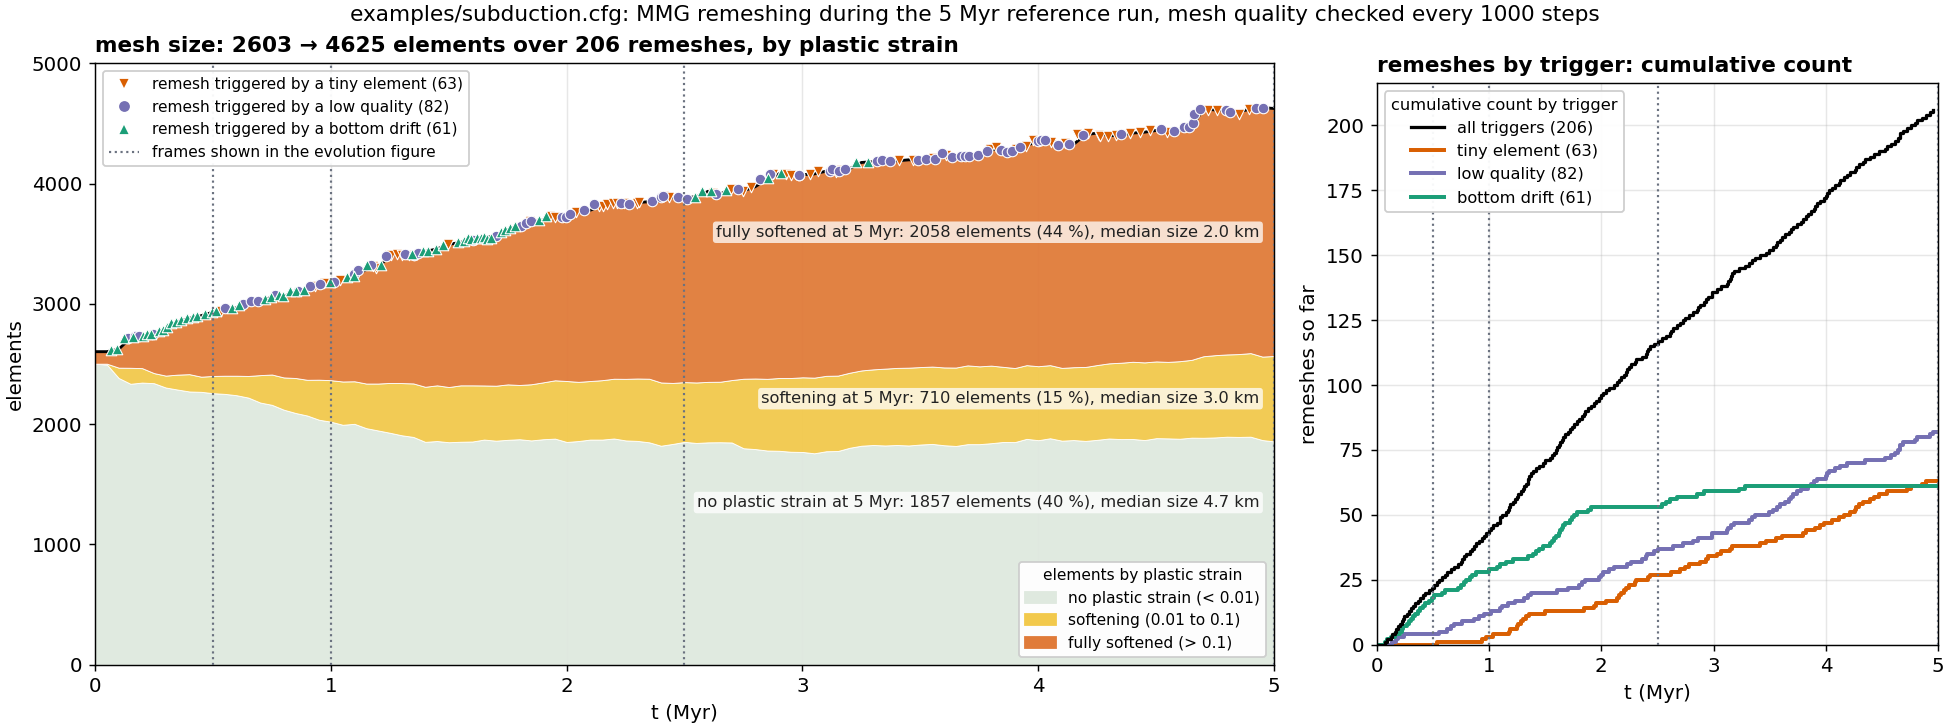
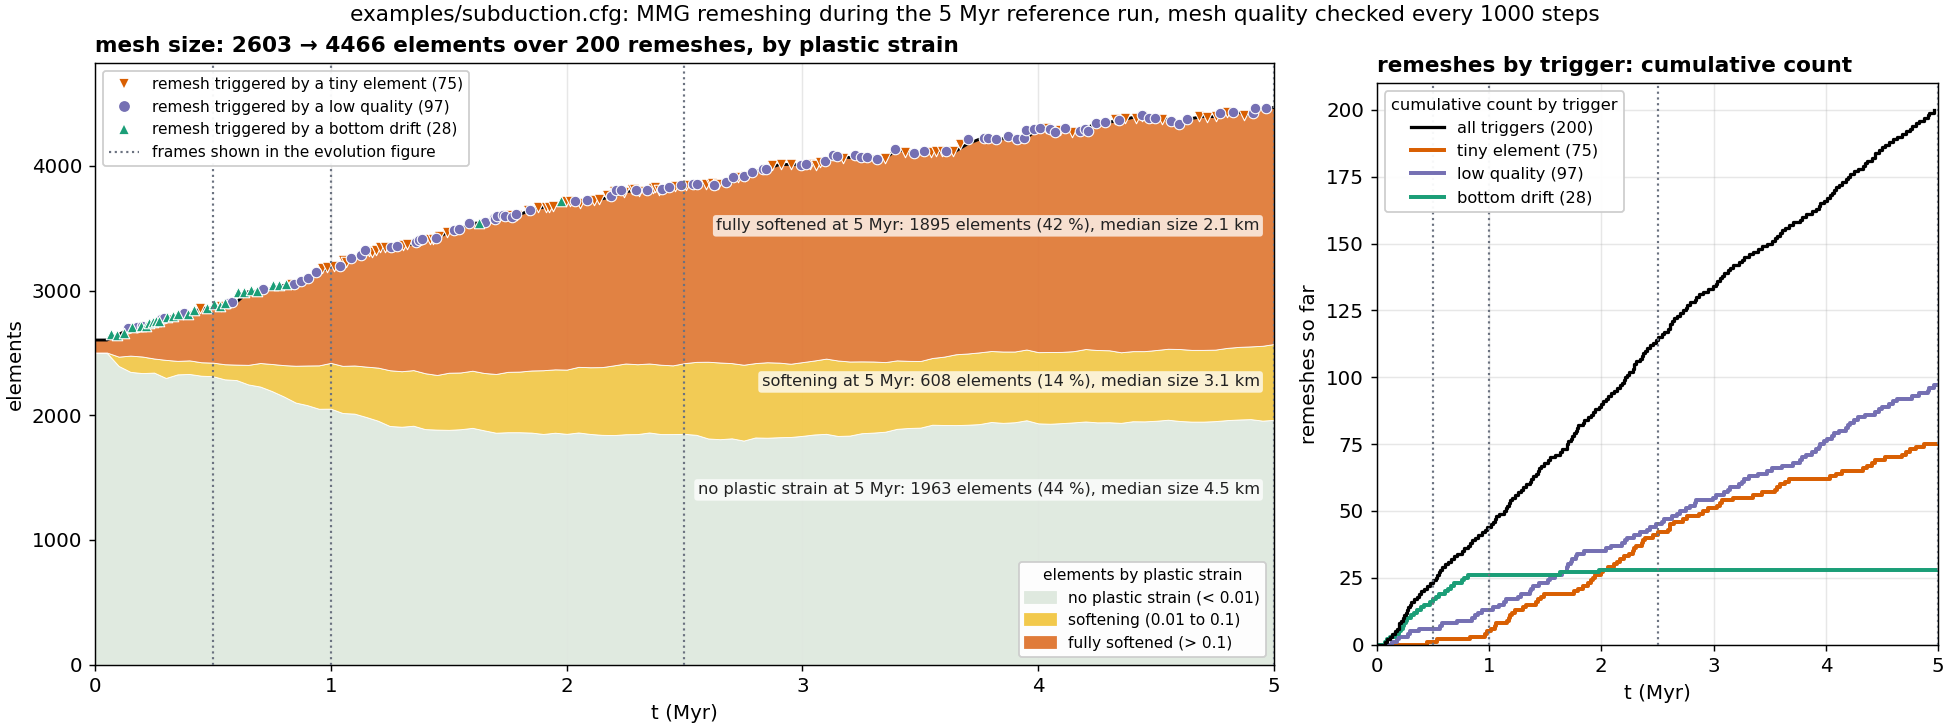
docs: tectonics Part 2 reference figures and numbers from a DynEarthSol master run
examples/subduction.cfg was rerun on master cce59ab5b (PR #110 merged) and
compared with the PR-head run the page was written from: same physics within
the usual A/B scatter. The evolution and remeshing figures come from the new
run, and the text follows it: 370 / 3200 serpentinite and 380 eclogite
markers, 2603 to 4466 elements over 200 remeshes, the trench deepest at
3 Myr, and the bottom-drift trigger confined to the first million years.

diff --git a/docs/tutorial/tectonics.md b/docs/tutorial/tectonics.md
@@ -752,16 +752,16 @@ Open `model-subduction.*.vtu` in ParaView. Fields to look at:
 - **viscosity**, the cold slab against the weak wedge
 - **temperature**, the slab's thermal anomaly and the heated wedge corner
 
-![Material with velocity arrows (left) and viscosity with isotherms (right) at 0.5, 1, 2.5 and 5 Myr, cropped to the slab: the tip sinks from 49 to 126 km depth, serpentinite (purple) lines the slab top and fills the wedge corner, eclogite (red) grows from the slab tip](./img/tectonics/subduction-evolution.png)
+![Material with velocity arrows (left) and viscosity with isotherms (right) at 0.5, 1, 2.5 and 5 Myr, cropped to the slab: the tip sinks from 48 to 124 km depth, serpentinite (purple) lines the slab top and fills the wedge corner, eclogite (red) grows from the slab tip](./img/tectonics/subduction-evolution.png)
 
 Things to look for as the run proceeds (the figure is the reference run):
 
 - **Serpentinite from the first frame.** The slab is already in place, so
-  mantle just above its top converts at once: about 450 markers by 0.5 Myr,
-  3100 by 5 Myr. On the viscosity panels this layer sits at the 10¹⁹ Pa s
+  mantle just above its top converts at once: about 370 markers by 0.5 Myr,
+  3200 by 5 Myr. On the viscosity panels this layer sits at the 10¹⁹ Pa s
   floor and is the weakest material in the model.
 - **Eclogite starts at the slab tip.** A few dozen markers have converted by
-  0.5 Myr, where the tip sits near 50 km; the count grows to about 400 by
+  0.5 Myr, where the tip sits near 50 km; the count grows to about 380 by
   5 Myr, when the deepest 30 km of the slab is eclogite.
 - **The slab tip** reaches 50 km at 0.5 Myr, 90 km at 2.5 Myr and about 125
   km at 5 Myr, keeping a dip of 30–35° on its way down. The cold core stays
@@ -775,32 +775,33 @@ Things to look for as the run proceeds (the figure is the reference run):
   down into it, while the incoming plate at the left wall keeps its three
   layers thanks to the restored wall.
 
-{/* Numbers are from the PR #110 head run pr110-ref (analysis/examples/376). */}
+{/* Numbers are from the DynEarthSol master (cce59ab5b) run subd-master-ref (analysis/examples/376, 379, 384). */}
 
 #### How the mesh keeps up
 
-![Mesh size and remeshing of the reference run: elements grow from 2603 to 4625 over 206 remeshes, split by plastic strain with each remesh marked by its trigger, and the cumulative remesh count by trigger](./img/tectonics/subduction-remeshing.png)
+![Mesh size and remeshing of the reference run: elements grow from 2603 to 4466 over 200 remeshes, split by plastic strain with each remesh marked by its trigger, and the cumulative remesh count by trigger](./img/tectonics/subduction-remeshing.png)
 
-The mesh nearly doubles over the run, and the left panel shows where the
-new elements go. Elements with no plastic strain fall from 2600 to about
-1900 as the deforming band widens into them, and they stay coarse at a
-median of 4.7 km. Fully softened elements, those past `pls1 = 0.1`, grow from
-none to about 2100, 44 % of the mesh, at a median size of 2.0 km against the
+The mesh grows by two thirds over the run, and the left panel shows where
+the new elements go. Elements with no plastic strain fall from 2600 to about
+2000 as the deforming band widens into them, and they stay coarse at a
+median of 4.5 km. Fully softened elements, those past `pls1 = 0.1`, grow from
+none to about 1900, 42 % of the mesh, at a median size of 2.1 km against the
 6 km resolution and the 1.5 km MMG floor. That is the MMG metric at work:
 `mmg_metric_refine_coeff` shrinks the target size where plastic strain has
 accumulated, along the plate interface and in the wedge, and nowhere else.
 
-The 206 remeshes have three triggers, each checked every
+The 200 remeshes have three triggers, each checked every
 `quality_check_step_interval` steps. A **tiny element** is one whose area has
 dropped below `smallest_size` times the resolution squared. **Low quality** is
 an element quality below `min_quality`, 0.2 here. **Bottom drift** is a bottom
 node more than `max_boundary_distortion` times `resolution`, 6 km here, from
 the 160 km base. The first two are the ordinary triggers and fire throughout.
-Bottom drift dominates the first 2 Myr while the slab tip sinks through the
-lower mantle and the Winkler bottom adjusts, then fades. Each remesh moves
+Bottom drift belongs to the first million years, 26 of its 28 remeshes, while
+the slab tip sinks through the lower mantle and the Winkler bottom adjusts;
+after that it stops. Each remesh moves
 the element count by only a few tens, because the conservative MMG mode
 freezes elements that are not yielding, distorted or tiny. Remeshing takes
-under 1 % of the wall time; the phase changes take 4 %.
+under 1 % of the wall time; the phase changes take 5 %.
 
 ### Exercise 3: change the thickness of the serpentinite layer
 
@@ -811,7 +812,7 @@ is the rule switched off.
 | Run | Thickness | Change | What you should see |
 |-----|-----------|--------|---------------------|
 | None | 0 km | `has_serpentinization = no` | The interface locks. The slab tip stalls near 80 km from 2 Myr on and the slab necks off; both plates thicken and buckle, relief reaches ±7 km, and the run ends at 3.45 Myr in a remeshing failure at the inflow wall (see the troubleshooting case below) |
-| Reference | 5 km | `serpentinization_thickness = 5e3` (one cell) | Steady subduction to 125 km at 5 Myr; trench 6 km deep at 2 Myr, recovering to 4 km; about 3100 serpentinite and 400 eclogite markers |
+| Reference | 5 km | `serpentinization_thickness = 5e3` (one cell) | Steady subduction to 125 km at 5 Myr; trench deepens to 6.5 km by 3 Myr and recovers to 4 km; about 3200 serpentinite and 380 eclogite markers |
 | Thick | 10 km | `serpentinization_thickness = 10e3` (two cells) | Half again as much serpentinite (4600 markers) in a wedge body that reaches further down the slab; trench 1.5 km shallower throughout; slab tip 120 km; 40 % fewer eclogite markers |
 
 ![Serpentinite layer none, 5 km and 10 km across the whole 400 km domain, the 5 km and 10 km runs at 5 Myr and the run without serpentinite at 3.4 Myr where it stopped: material, phase-change markers and velocity arrows per run, then slab-tip depth, trench depth and marker counts against time to 5 Myr](./img/tectonics/subduction-serp-thickness.png)
